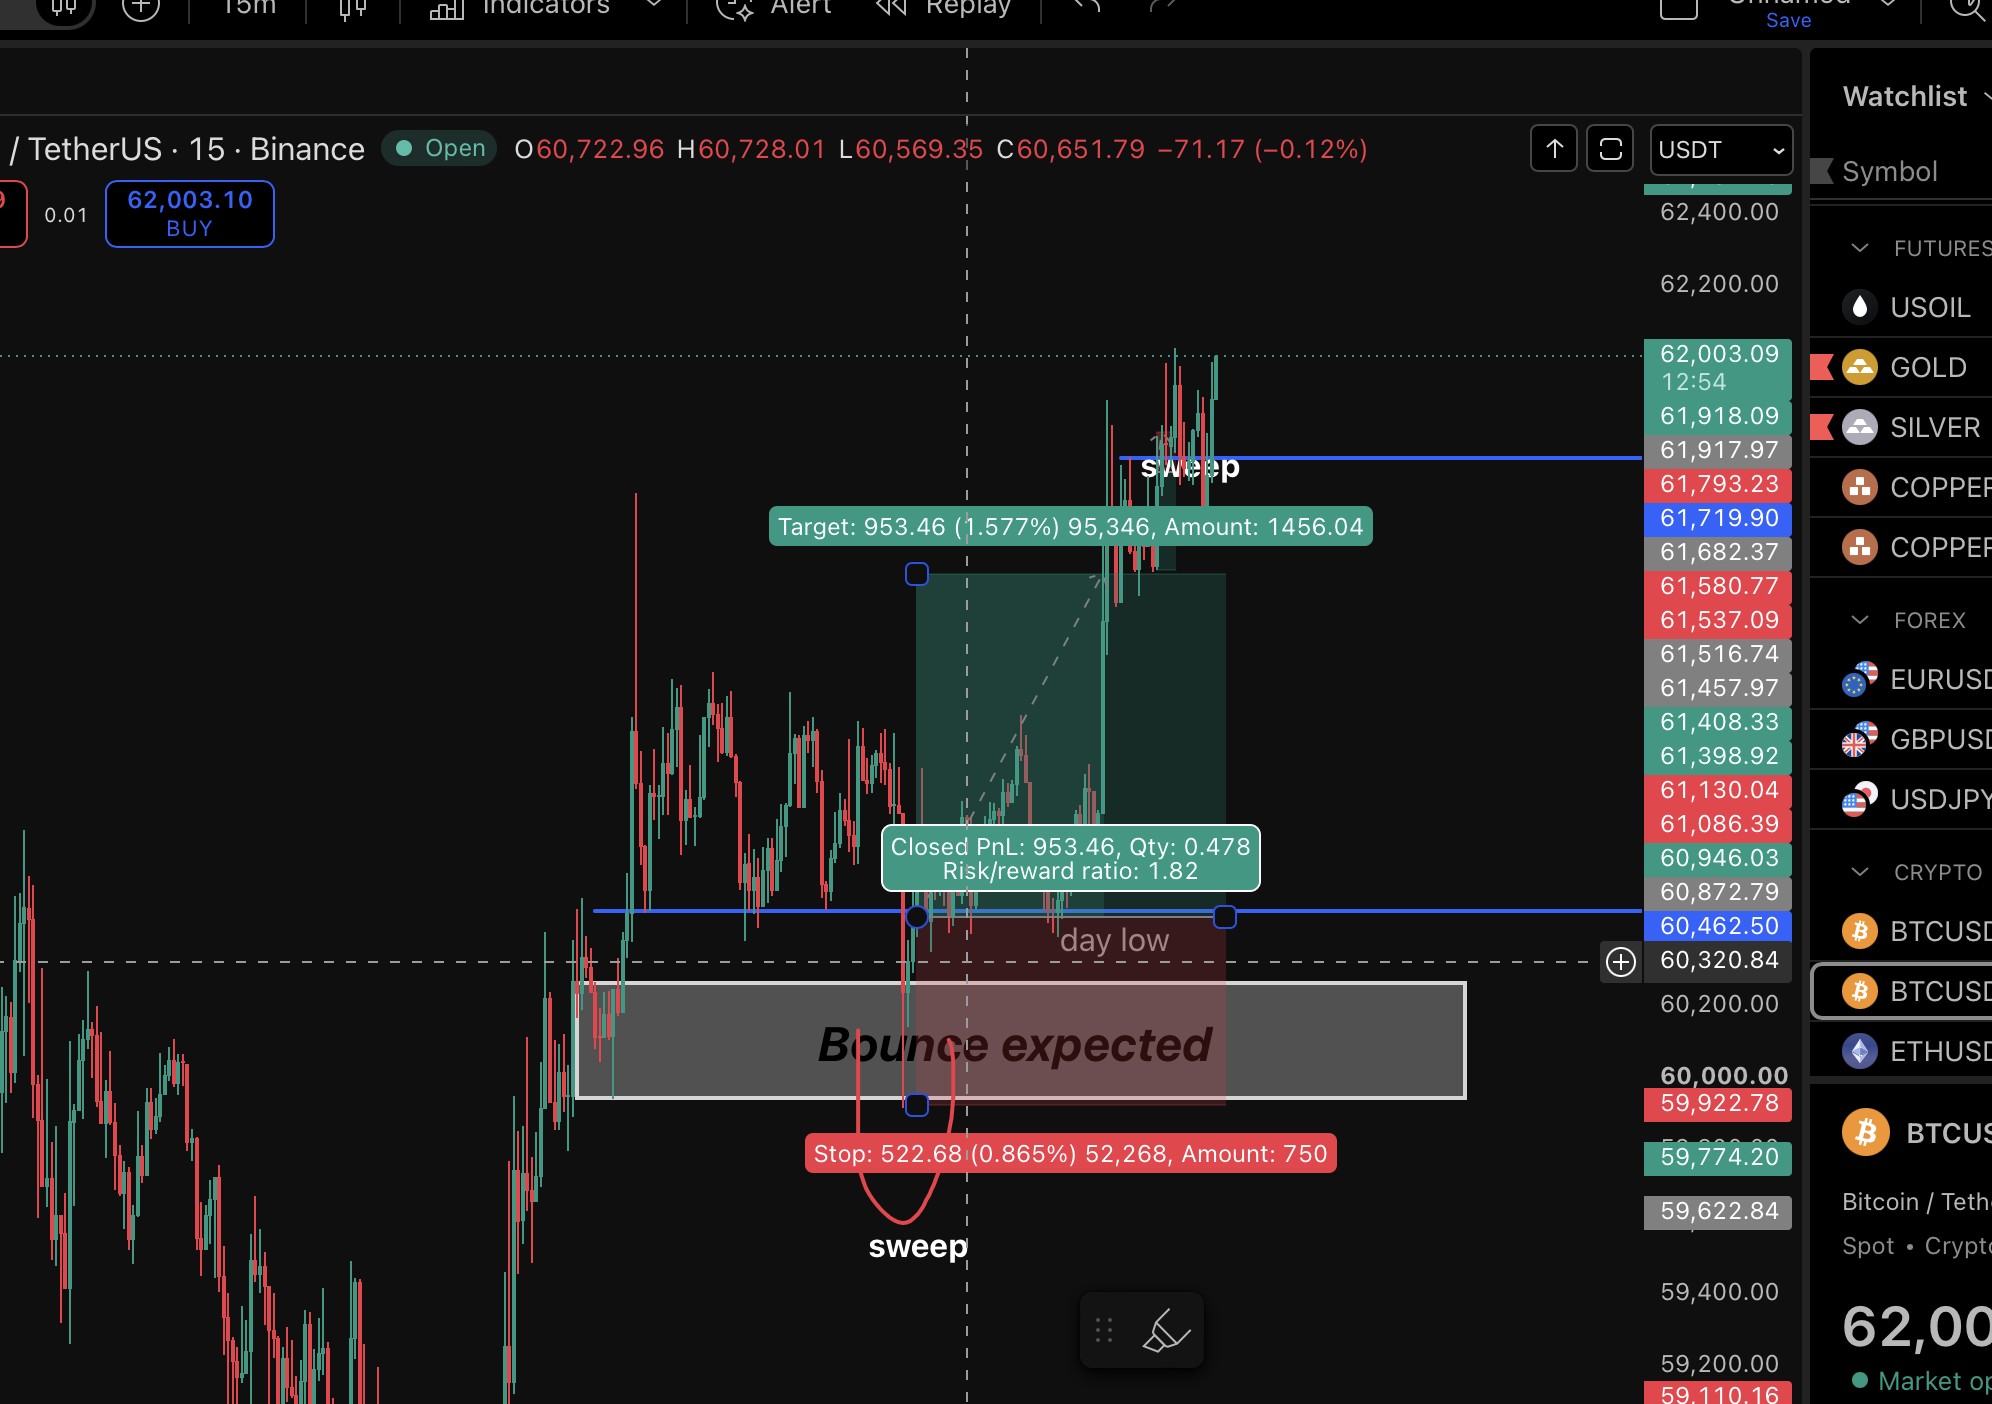
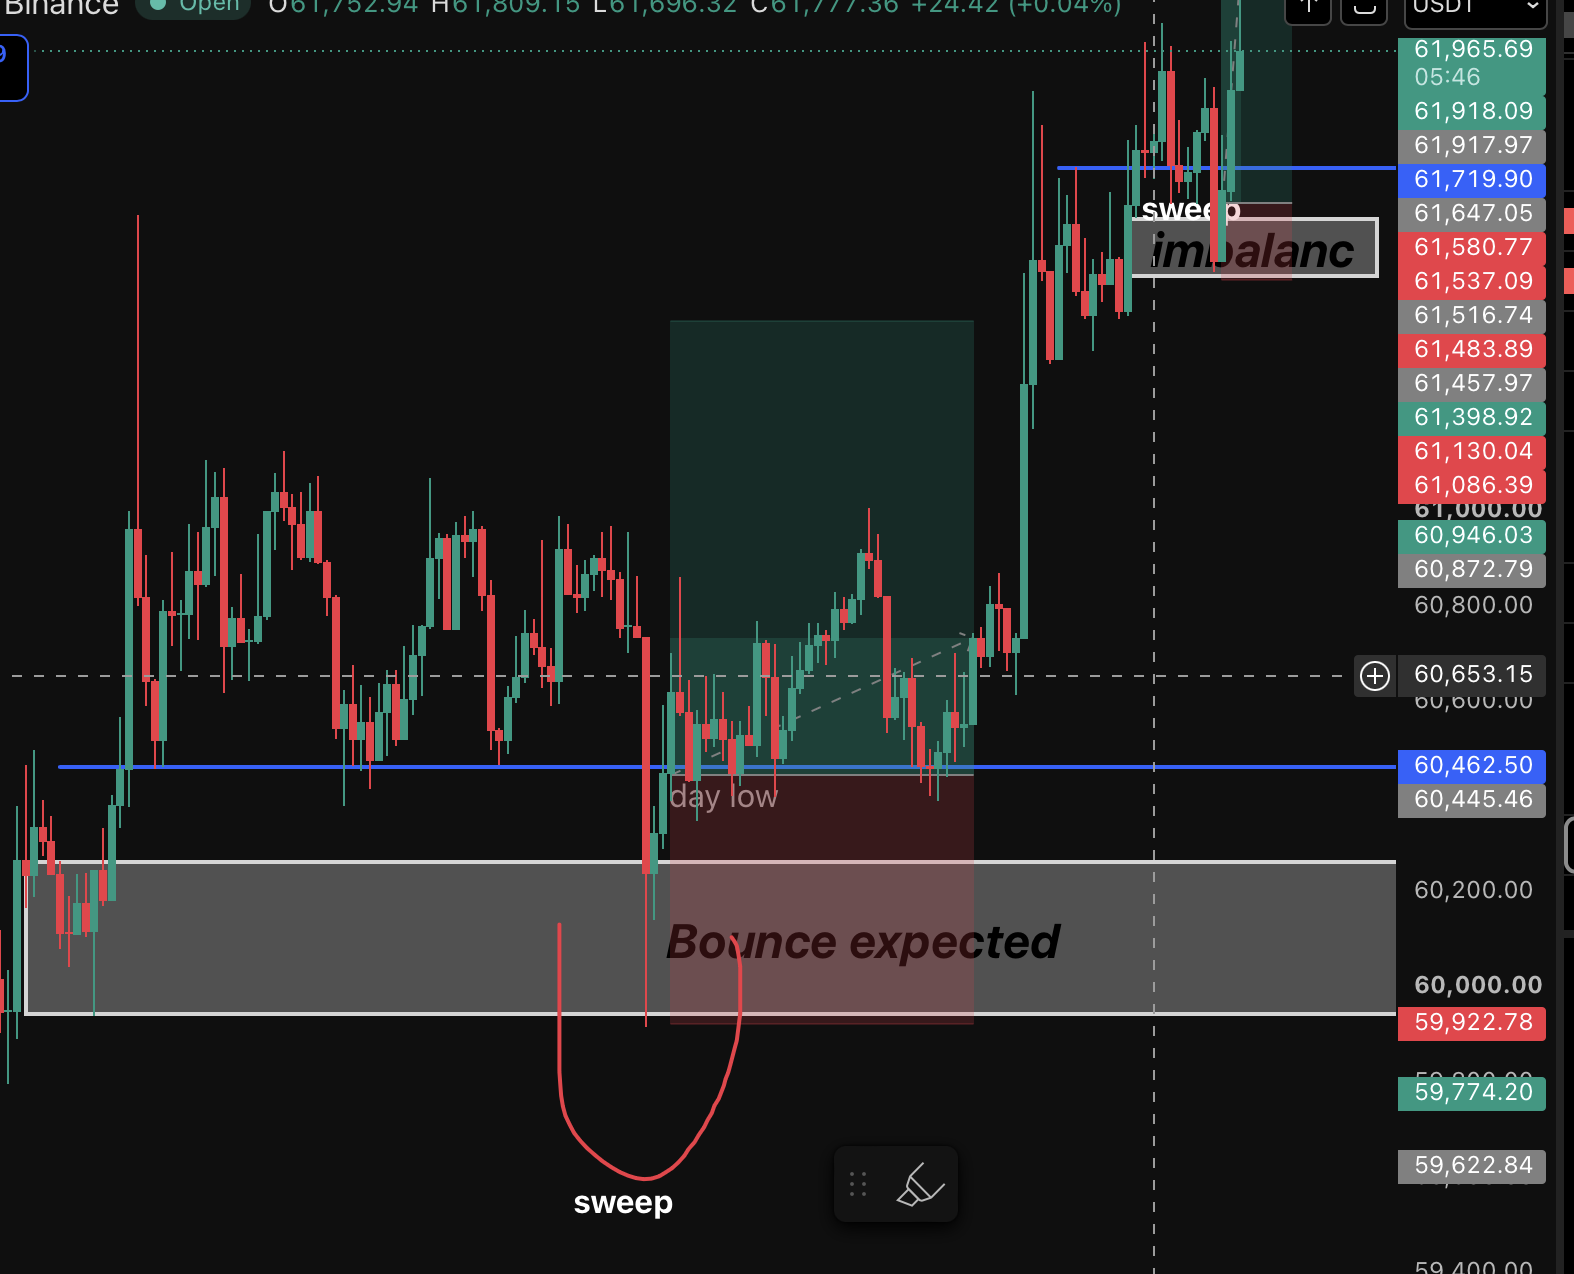
Library: clearer day-low sweep chart
Claude-Session: https://claude.ai/code/session_01Fno21JqRkmghtKYaiSSLAo

diff --git a/day-trading.html b/day-trading.html
@@ -73,7 +73,7 @@
         <h3>Liquidity sweep and fakeout</h3>
         <img src="assets/library/day-low-sweep-15m.png" alt="BTC 15-minute chart: price sweeps below the day low at 60,462 into the bounce zone near 60,000, reclaims the day low, and the long runs to target above 61,400" loading="lazy">
         <p>Price runs just past a level, takes the stops behind it, then snaps back. The traders who chased the breakout are now trapped, and their exits fuel the move the other way.</p>
-        <p class="muted">Above: price sweeps below the day low (60,462) into the bounce zone, reclaims it, and the long runs to target. R:R of 1.82.</p>
+        <p class="muted">Above: price sweeps below the day low (60,462) into the bounce zone, reclaims it, and the long runs to target.</p>
       </article>
       <article class="card">
         <div class="tag">The trap</div>
